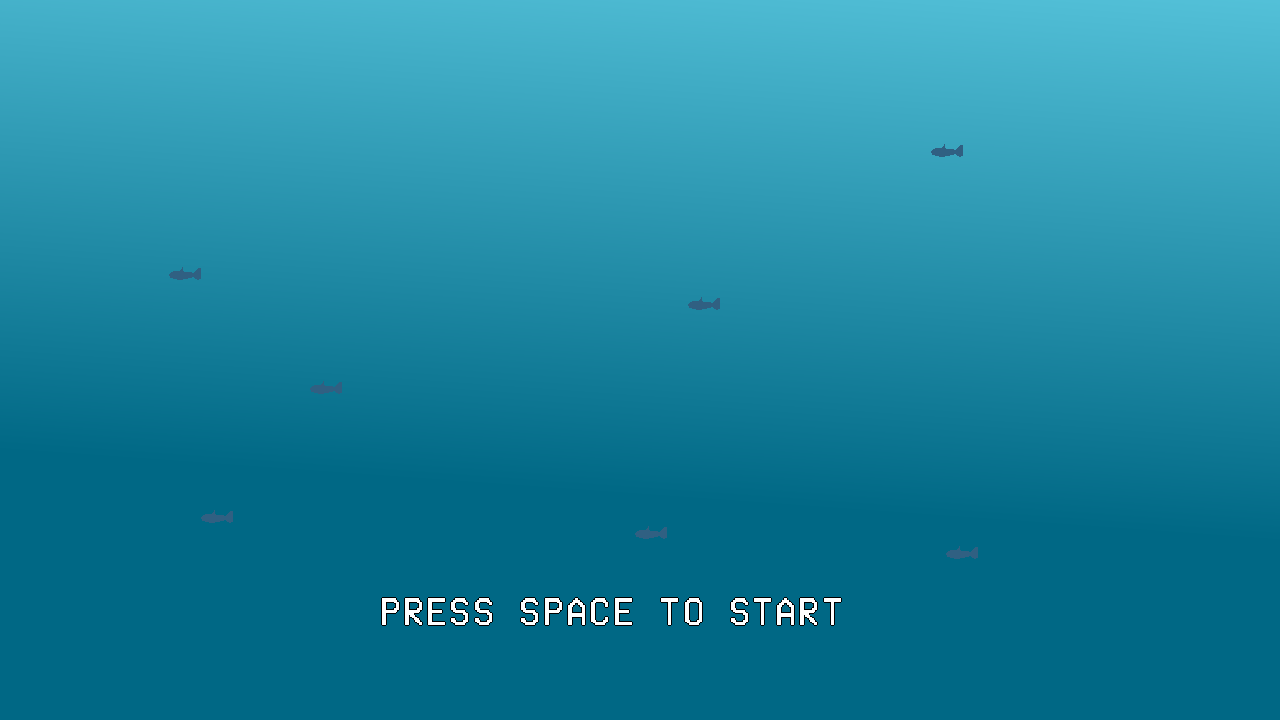
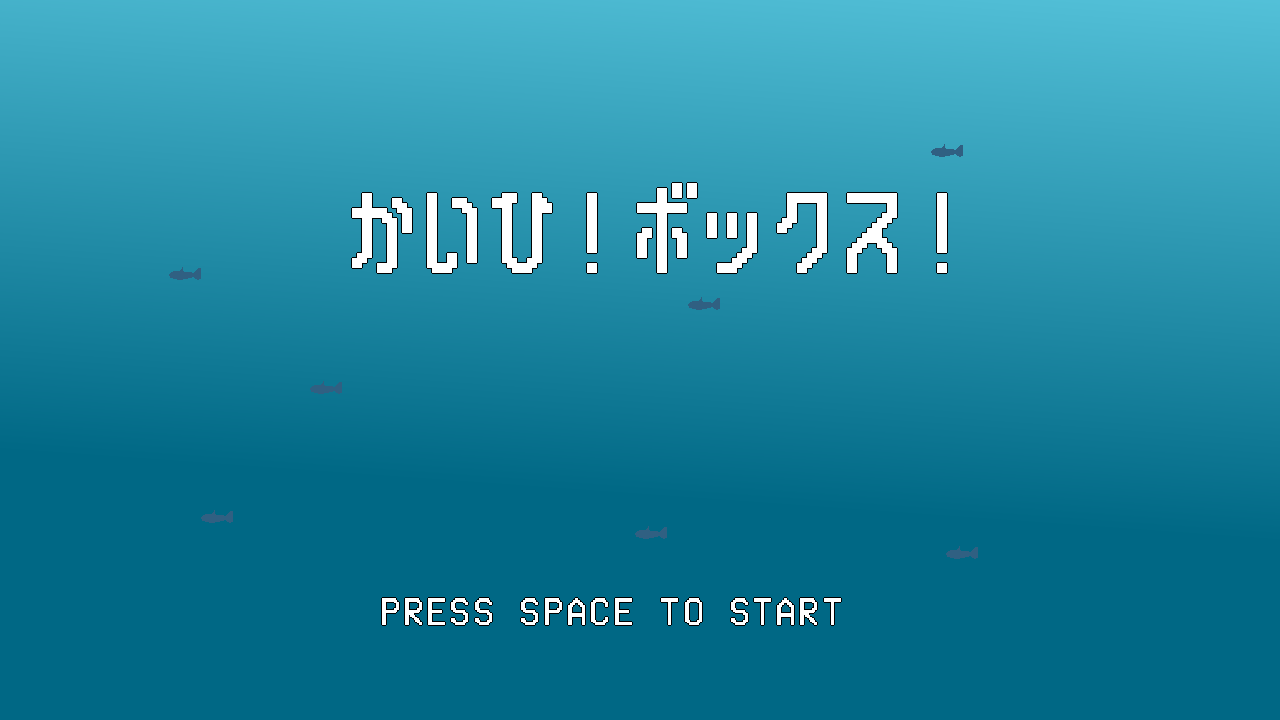
a

Changed region(s): [[0.5, 0.2444, 0.75, 0.3972], [0.25, 0.2444, 0.4688, 0.3972]]

diff --git a/main.cpp b/main.cpp
@@ -96,16 +96,6 @@ int WINAPI WinMain(HINSTANCE, HINSTANCE, LPSTR, int) {
 	int posAX1 = posX;
 	int posAX2 = posX + 32;
 
-	// 障害物当たり判定宣言
-	int boxX = 100;
-	//int boxY = 300;
-
-	int boxAX1 = boxX;
-	int boxAX2 = boxX + 100;
-
-	bool is_player_hit = false;
-	bool is_player_hitX = false;
-
 	bool modeDefault = true;
 	bool modeBreak = false;
 	bool modeSlipthorugh = false;
@@ -117,8 +107,17 @@ int WINAPI WinMain(HINSTANCE, HINSTANCE, LPSTR, int) {
 	int playerBlueHandle;
 	playerBlueHandle = Novice::LoadTexture("./images/playerBlue.png");
 
-	//int boxHandle;
-	//boxHandle = Novice::LoadTexture("./images/breakver.png");
+	// 障害物当たり判定宣言
+	int boxX = 400;
+
+	int boxAX1 = boxX;
+	int boxAX2 = boxX + 100;
+
+	bool is_player_hit = false;
+	bool is_player_hitX = false;
+
+	int boxHandle;
+	boxHandle = Novice::LoadTexture("./images/breakver.png");
 	//int boxHandle2;
 	//boxHandle2 = Novice::LoadTexture("./images/inbijiver.png");
 
@@ -158,6 +157,7 @@ int WINAPI WinMain(HINSTANCE, HINSTANCE, LPSTR, int) {
 		if (scene == mainscene) {
 			nextScene = Mainscene(posX);
 
+			//スクロール関連
 			posX += speed;
 
 			ScrollX = posX + posrad;
@@ -197,10 +197,15 @@ int WINAPI WinMain(HINSTANCE, HINSTANCE, LPSTR, int) {
 				is_player_hit = false;
 			}
 			
+			//背景の描画
 			for (int i = 0; i < 84; i++) {
 				Novice::DrawSprite(backgroundX[i] - ScrollX, 0, backgroundHandle, 1, 1, 0.0f, WHITE);
+				if (boxX *  i) {
+					Novice::DrawSprite(boxAX1, 328, boxHandle, 1, 1, 0.0f, WHITE);
+				}
 			}
 
+			//モードの切り替え
 			if (modeDefault == true) {
 				Novice::DrawSprite(posAX1, posY, playerWhiteHandle, 1, 1, 0.0f, WHITE);
 				if (keys[DIK_SPACE] && !preKeys[DIK_SPACE]) {
@@ -227,7 +232,6 @@ int WINAPI WinMain(HINSTANCE, HINSTANCE, LPSTR, int) {
 					modeSlipthorugh = false;
 				}
 			}
-			
 		}
 
 		if (scene != nextScene) {
@@ -249,12 +253,10 @@ int WINAPI WinMain(HINSTANCE, HINSTANCE, LPSTR, int) {
 		///
 		/// ↓描画処理ここから
 		///
-
-
-		Novice::ScreenPrintf(0, 0, "%d", posX);
-		Novice::ScreenPrintf(0, 20, "%d", speed);
-
 		
+		Novice::ScreenPrintf(0, 0, "%d", is_player_hit);
+		Novice::ScreenPrintf(0, 10, "%d", is_player_hitX);
+
 		///
 		/// ↑描画処理ここまで
 		///
